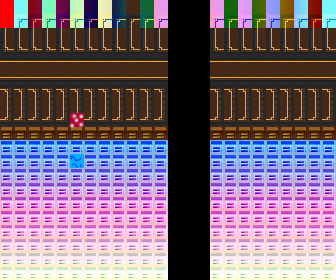
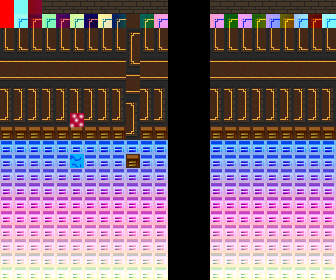
Fix to level editor to remember placed tiles, re-arranged tiles in study to accurately map and replaced floor tile in house

diff --git a/js/LevelEditor.js b/js/LevelEditor.js
@@ -175,7 +175,7 @@ function editTileUnderMousePos()
     else if (editorTileSelected)
     {
         worldGrid[mouseOverTileIdx] = copiedTile;
-        roomLayout[currentRoomIndex][mouseOverTileIdx] = copiedTile;
+        roomLayout[roomCoordToIndex()][mouseOverTileIdx] = copiedTile;
     }
     else
     {
